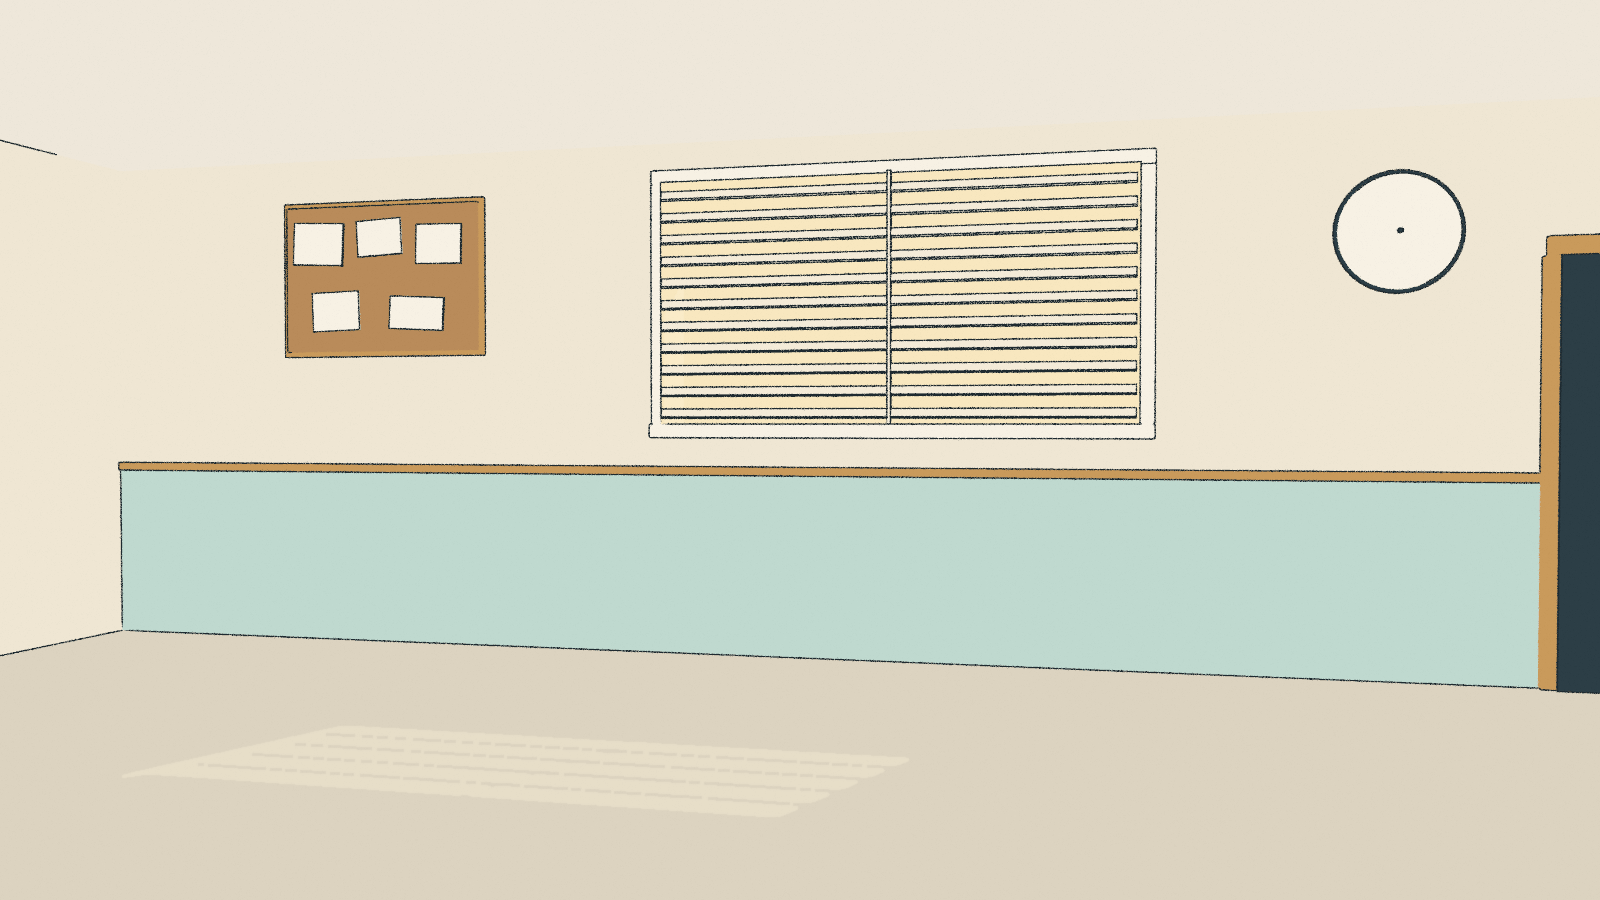
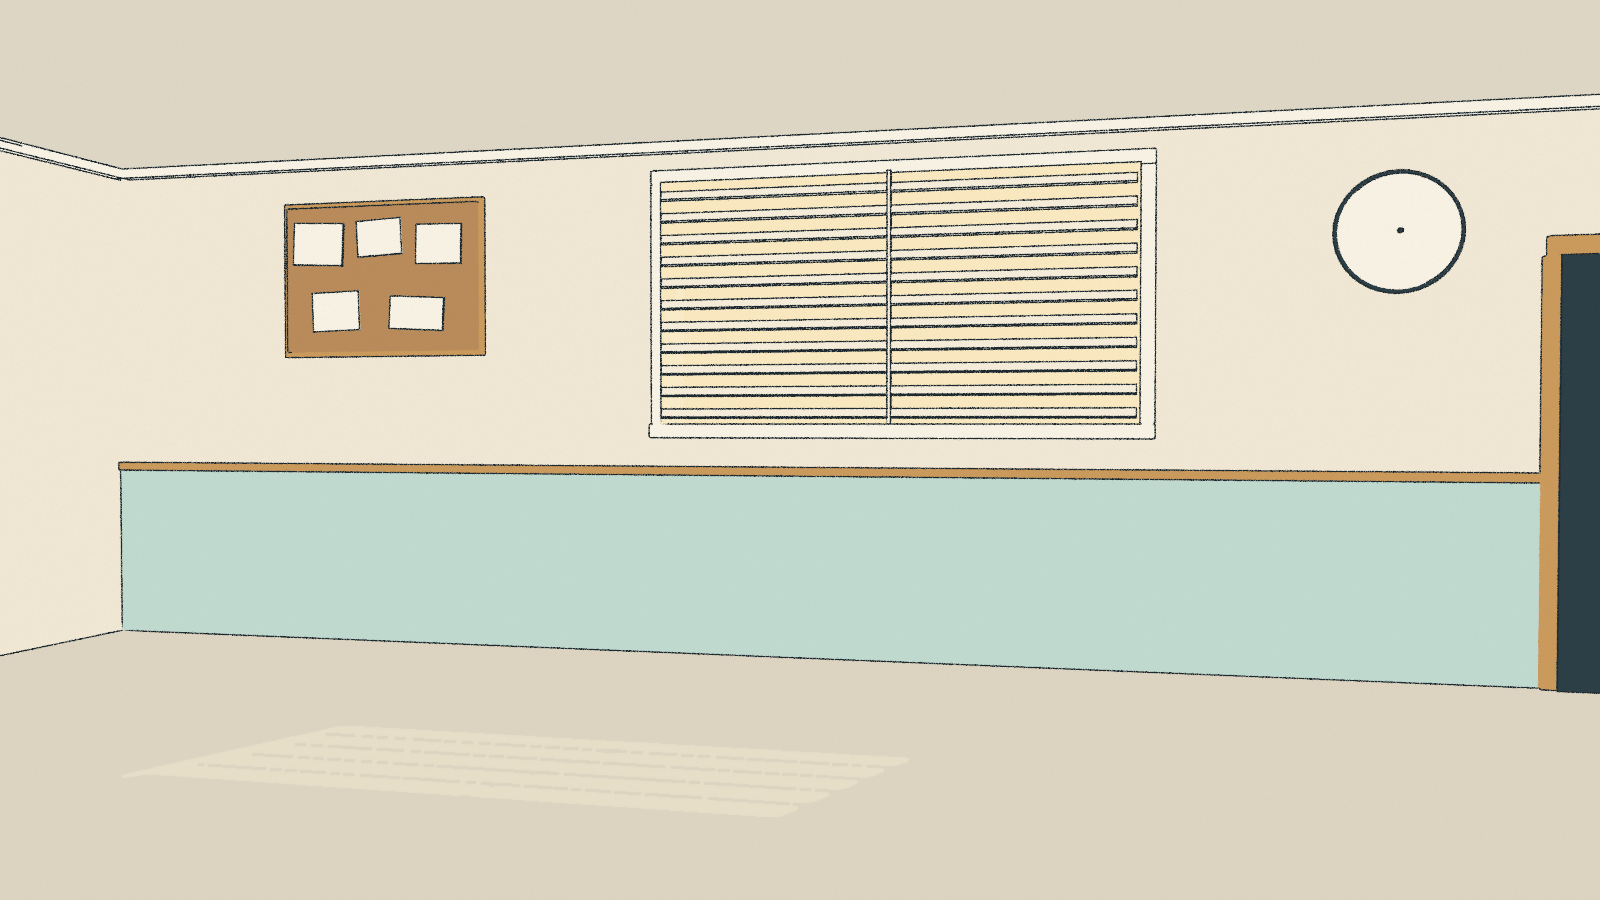
Aufnahme: Decke eigener Ton, Deckenleiste als Linie am Wandstoß
Claude-Session: https://claude.ai/code/session_011iDjXfQPNzmXexzMP81nyj

Changed region(s): [[0.0625, 0.1556, 0.5625, 0.2178], [0.5625, 0.0933, 1.0, 0.1556], [0.0, 0.1556, 0.0625, 0.1867]]

diff --git a/gen/blender/szene_aufnahme.py b/gen/blender/szene_aufnahme.py
@@ -21,7 +21,7 @@ def mat(name, color, rough=0.6, metallic=0.0, emission=None, strength=1.0):
 # светлоты заданы осознанно: стены светлые, мебель тёмная, чтобы силуэты читались после постеризации
 G = {
     "wall": mat("wall", (0.62, 0.60, 0.55), 0.85), "wall_low": mat("wall_low", (0.30, 0.36, 0.36), 0.8),
-    "ceiling": mat("ceiling", (0.25, 0.25, 0.24), 0.9), "floor": mat("floor", (0.50, 0.48, 0.44), 0.35),
+    "ceiling": mat("ceiling", (0.25, 0.25, 0.24), 0.9), "cornice": mat("cornice", (0.7, 0.68, 0.62), 0.8), "floor": mat("floor", (0.50, 0.48, 0.44), 0.35),
     "dark": mat("dark", (0.07, 0.08, 0.09), 0.5), "mid": mat("mid", (0.22, 0.24, 0.25), 0.55),
     "wood": mat("wood", (0.36, 0.26, 0.17), 0.5), "paper": mat("paper", (0.90, 0.86, 0.78), 0.8),
     "cork": mat("cork", (0.42, 0.30, 0.18), 0.9), "metal": mat("metal", (0.45, 0.47, 0.48), 0.35, 0.7),
@@ -81,6 +81,10 @@ bpy.data.objects.remove(_hole, do_unlink=True)
 box((40, 30, 0.1), (0, 16, -0.05), mat("ground", (0.35, 0.42, 0.3), 0.9), "bg", bevel=0, name="ground")
 box((W + 2, DEPTH + 2, 0.1), (0, -DEPTH / 2 + 0.5, -0.05), G["floor"], "bg", bevel=0, name="floor")
 box((W + 2, DEPTH + 2, 0.1), (0, -DEPTH / 2 + 0.5, H + 0.05), G["ceiling"], "bg", bevel=0, name="ceiling")
+# Deckenkante: schmale Leiste am Übergang Wand/Decke, damit die Tuschelinie den Stoß zeigt
+box((W, 0.06, 0.06), (0, -0.03, H - 0.03), G["cornice"], "bg", bevel=0, name="cornice_back")
+box((0.06, DEPTH + 2, 0.06), (-W / 2 + 0.03, -DEPTH / 2 + 0.5, H - 0.03), G["cornice"], "bg", bevel=0, name="cornice_left")
+box((0.06, DEPTH + 2, 0.06), (W / 2 - 0.03, -DEPTH / 2 + 0.5, H - 0.03), G["cornice"], "bg", bevel=0, name="cornice_right")
 box((0.3, DEPTH + 2, H), (-W / 2 - 0.15, -DEPTH / 2 + 0.5, H / 2), G["wall"], "bg", bevel=0, name="wall_left")
 box((0.3, DEPTH + 2, H), (W / 2 + 0.15, -DEPTH / 2 + 0.5, H / 2), G["wall"], "bg", bevel=0, name="wall_right")
 # нижняя тёмная панель стены (как в прототипе) и рейка

diff --git a/gen/blender/ebenen_aufnahme.py b/gen/blender/ebenen_aufnahme.py
@@ -14,7 +14,7 @@ sc = bpy.context.scene
 hexc = lambda s: tuple(int(s[i:i + 2], 16) / 255 for i in (1, 3, 5))
 # палитра ligne claire: приглушённая, светлая, один ржавый акцент
 PAL = {
-    "wall": "#EFE6D3", "wall_low": "#BFD9CF", "ceiling": "#EEE7DA", "floor": "#DCD3C0",
+    "wall": "#EFE6D3", "cornice": "#F7F1E4", "wall_low": "#BFD9CF", "ceiling": "#DDD6C4", "floor": "#DCD3C0",
     "wood": "#C99A5B", "paper": "#F7F1E4", "cork": "#B98B5A", "dark": "#2C3E46", "mid": "#2C5560",
     "metal": "#8A9598", "glass": "#EAF1F2", "slat": "#F4EBD8", "screen": "#CDEBDA", "lampshade": "#2C3E46",
     "accent": "#B5552D", "dawn": "#F8E7BF", "corridor": "#F3D9A8", "ground": "#CFD9C2",
